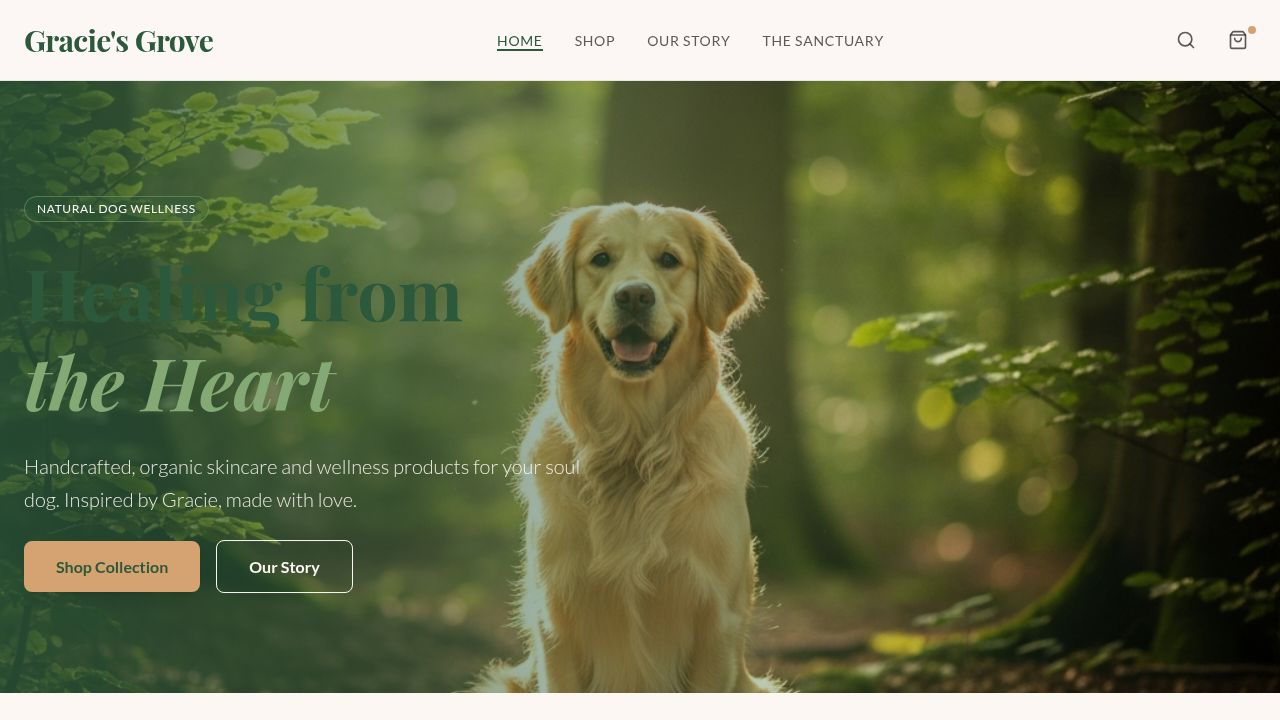
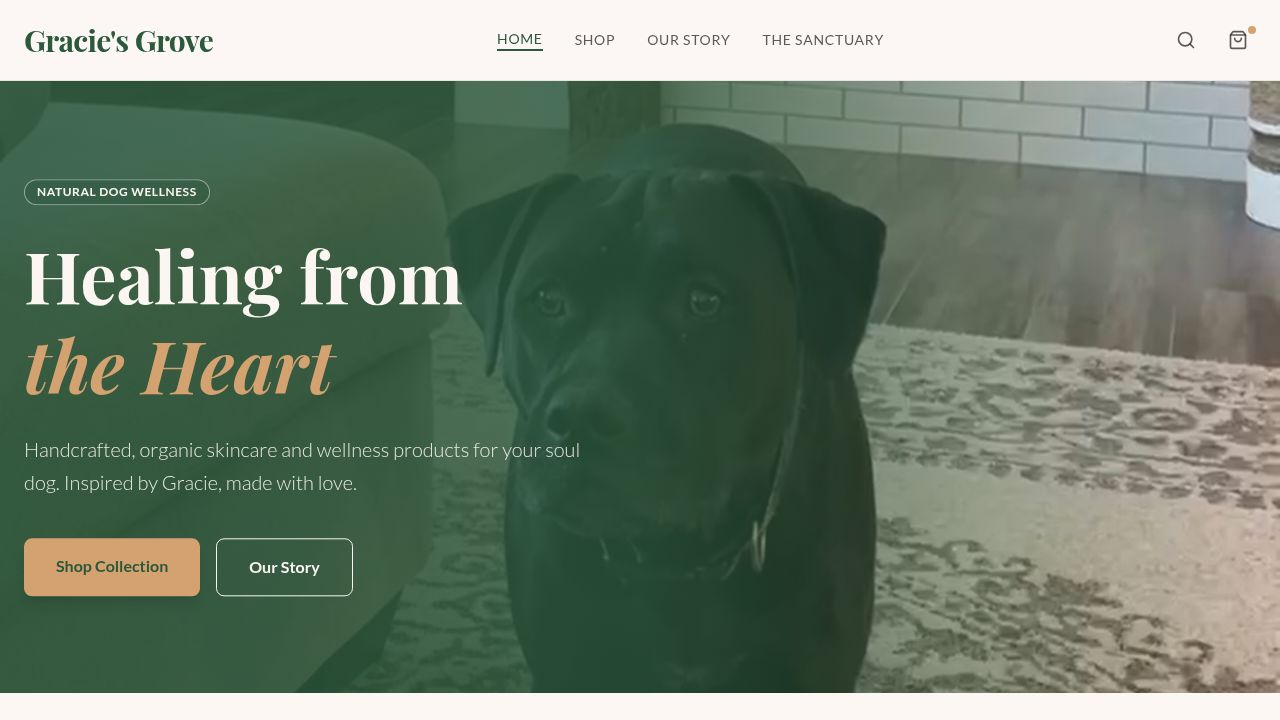
Fix navigation links missing in mobile menu
Refactors Link components to remove unnecessary `<a>` tags, resolving hydration errors and restoring mobile navigation links.

Replit-Commit-Author: Agent
Replit-Commit-Session-Id: 91276f04-4950-4d9c-bae5-9a5703054215
Replit-Commit-Checkpoint-Type: full_checkpoint
Replit-Commit-Event-Id: fe5303e7-064d-4509-8184-1ad3b49cdd59
Replit-Commit-Screenshot-Url: https://storage.googleapis.com/screenshot-production-us-central1/d183514c-f366-4dcf-b754-f77e24a72cde/91276f04-4950-4d9c-bae5-9a5703054215/qfnhuT1
Replit-Helium-Checkpoint-Created: true

diff --git a/client/src/components/layout/Navbar.tsx b/client/src/components/layout/Navbar.tsx
@@ -34,21 +34,21 @@ export function Navbar() {
           </button>
 
           {/* Logo */}
-          <Link href="/">
-            <a className="text-2xl md:text-3xl font-serif font-bold text-forest tracking-tight">
-              Gracie's Grove
-            </a>
+          <Link href="/" className="text-2xl md:text-3xl font-serif font-bold text-forest tracking-tight">
+            Gracie's Grove
           </Link>
 
           {/* Desktop Navigation */}
           <div className="hidden md:flex items-center gap-8">
             {mainLinks.map((link) => (
-              <Link key={link.href} href={link.href}>
-                <a className={`text-sm uppercase tracking-wider font-medium hover:text-forest transition-colors ${
+              <Link 
+                key={link.href} 
+                href={link.href}
+                className={`text-sm uppercase tracking-wider font-medium hover:text-forest transition-colors ${
                   location === link.href ? "text-forest border-b-2 border-forest" : "text-charcoal/80"
-                }`}>
-                  {link.label}
-                </a>
+                }`}
+              >
+                {link.label}
               </Link>
             ))}
           </div>
@@ -107,18 +107,18 @@ export function Navbar() {
                     {mainLinks.map((link) => {
                       const Icon = link.icon;
                       return (
-                        <Link key={link.href} href={link.href}>
-                          <a 
-                            onClick={() => setIsOpen(false)}
-                            className={`flex items-center gap-4 px-6 py-4 border-b border-gray-100 transition-colors ${
-                              location === link.href 
-                                ? "bg-forest/5 text-forest font-bold border-l-4 border-l-forest" 
-                                : "text-gray-800 hover:bg-gray-50 font-medium border-l-4 border-l-transparent"
-                            }`}
-                          >
-                            <Icon className={`w-5 h-5 ${location === link.href ? "text-forest" : "text-gray-400"}`} />
-                            <span className="text-lg">{link.label}</span>
-                          </a>
+                        <Link 
+                          key={link.href} 
+                          href={link.href}
+                          onClick={() => setIsOpen(false)}
+                          className={`flex items-center gap-4 px-6 py-4 border-b border-gray-100 transition-colors ${
+                            location === link.href 
+                              ? "bg-forest/5 text-forest font-bold border-l-4 border-l-forest" 
+                              : "text-gray-800 hover:bg-gray-50 font-medium border-l-4 border-l-transparent"
+                          }`}
+                        >
+                          <Icon className={`w-5 h-5 ${location === link.href ? "text-forest" : "text-gray-400"}`} />
+                          <span className="text-lg">{link.label}</span>
                         </Link>
                       );
                     })}
@@ -129,14 +129,14 @@ export function Navbar() {
                     {footerLinks.map((link) => {
                       const Icon = link.icon;
                       return (
-                        <Link key={link.href} href={link.href}>
-                          <a 
-                            onClick={() => setIsOpen(false)}
-                            className="flex items-center gap-4 px-6 py-3 hover:bg-gray-50 text-gray-600 hover:text-forest transition-colors"
-                          >
-                            <Icon className="w-4 h-4 text-gray-400" />
-                            <span className="text-base font-medium">{link.label}</span>
-                          </a>
+                        <Link 
+                          key={link.href} 
+                          href={link.href}
+                          onClick={() => setIsOpen(false)}
+                          className="flex items-center gap-4 px-6 py-3 hover:bg-gray-50 text-gray-600 hover:text-forest transition-colors"
+                        >
+                          <Icon className="w-4 h-4 text-gray-400" />
+                          <span className="text-base font-medium">{link.label}</span>
                         </Link>
                       );
                     })}

diff --git a/client/src/components/layout/Footer.tsx b/client/src/components/layout/Footer.tsx
@@ -18,10 +18,10 @@ export function Footer() {
           <div className="space-y-4">
             <h4 className="text-lg font-serif font-medium text-sage">Shop</h4>
             <ul className="space-y-2 text-sm text-cream/80">
-              <li><Link href="/shop"><a className="hover:text-tan transition-colors">All Products</a></Link></li>
-              <li><Link href="/shop?cat=balms"><a className="hover:text-tan transition-colors">Balms & Salves</a></Link></li>
-              <li><Link href="/shop?cat=wellness"><a className="hover:text-tan transition-colors">Wellness</a></Link></li>
-              <li><Link href="/shop?cat=sets"><a className="hover:text-tan transition-colors">Gift Sets</a></Link></li>
+              <li><Link href="/shop" className="hover:text-tan transition-colors">All Products</Link></li>
+              <li><Link href="/shop?cat=balms" className="hover:text-tan transition-colors">Balms & Salves</Link></li>
+              <li><Link href="/shop?cat=wellness" className="hover:text-tan transition-colors">Wellness</Link></li>
+              <li><Link href="/shop?cat=sets" className="hover:text-tan transition-colors">Gift Sets</Link></li>
             </ul>
           </div>
 
@@ -29,10 +29,10 @@ export function Footer() {
           <div className="space-y-4">
             <h4 className="text-lg font-serif font-medium text-sage">Learn</h4>
             <ul className="space-y-2 text-sm text-cream/80">
-              <li><Link href="/story"><a className="hover:text-tan transition-colors">Our Story</a></Link></li>
-              <li><Link href="/sanctuary"><a className="hover:text-tan transition-colors">The Sanctuary</a></Link></li>
-              <li><Link href="/ingredients"><a className="hover:text-tan transition-colors">Ingredients</a></Link></li>
-              <li><Link href="/blog"><a className="hover:text-tan transition-colors">Blog</a></Link></li>
+              <li><Link href="/story" className="hover:text-tan transition-colors">Our Story</Link></li>
+              <li><Link href="/sanctuary" className="hover:text-tan transition-colors">The Sanctuary</Link></li>
+              <li><Link href="/ingredients" className="hover:text-tan transition-colors">Ingredients</Link></li>
+              <li><Link href="/blog" className="hover:text-tan transition-colors">Blog</Link></li>
             </ul>
           </div>
 

diff --git a/client/src/pages/Home.tsx b/client/src/pages/Home.tsx
@@ -37,15 +37,11 @@ export default function Home() {
               Handcrafted, organic skincare and wellness products for your soul dog. Inspired by Gracie, made with love.
             </p>
             <div className="flex gap-4 pt-4">
-              <Link href="/shop">
-                <a className="px-8 py-4 bg-tan text-forest font-bold rounded hover:bg-cream transition-colors shadow-lg hover:shadow-xl transform hover:-translate-y-1 transition-all duration-300">
-                  Shop Collection
-                </a>
+              <Link href="/shop" className="px-8 py-4 bg-tan text-forest font-bold rounded hover:bg-cream transition-colors shadow-lg hover:shadow-xl transform hover:-translate-y-1 transition-all duration-300 inline-block">
+                Shop Collection
               </Link>
-              <Link href="/story">
-                <a className="px-8 py-4 bg-transparent border border-cream text-cream font-bold rounded hover:bg-cream/10 transition-colors">
-                  Our Story
-                </a>
+              <Link href="/story" className="px-8 py-4 bg-transparent border border-cream text-cream font-bold rounded hover:bg-cream/10 transition-colors inline-block">
+                Our Story
               </Link>
             </div>
           </motion.div>
@@ -145,10 +141,8 @@ export default function Home() {
           <p className="text-xl text-cream/80 leading-relaxed font-light">
             We are building a 400-acre haven in Utah. A place where dogs can run free, heal, and live their best lives. Gracie's Grove is more than a brand; it's a promise of a better future.
           </p>
-          <Link href="/sanctuary">
-            <a className="inline-block border-2 border-tan text-tan px-8 py-3 rounded font-bold hover:bg-tan hover:text-forest transition-colors uppercase tracking-widest text-sm">
-              Discover Our Vision
-            </a>
+          <Link href="/sanctuary" className="inline-block border-2 border-tan text-tan px-8 py-3 rounded font-bold hover:bg-tan hover:text-forest transition-colors uppercase tracking-widest text-sm">
+            Discover Our Vision
           </Link>
         </div>
       </section>
